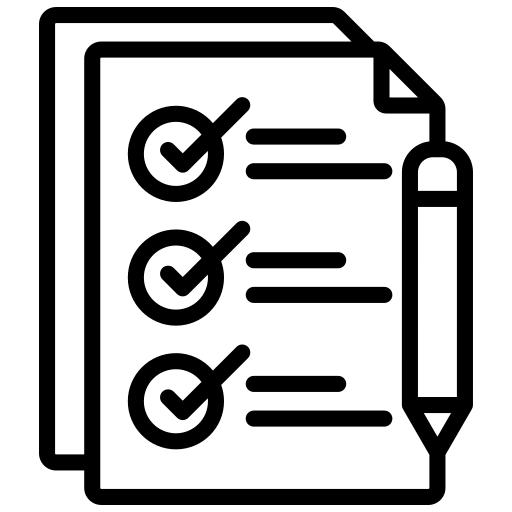
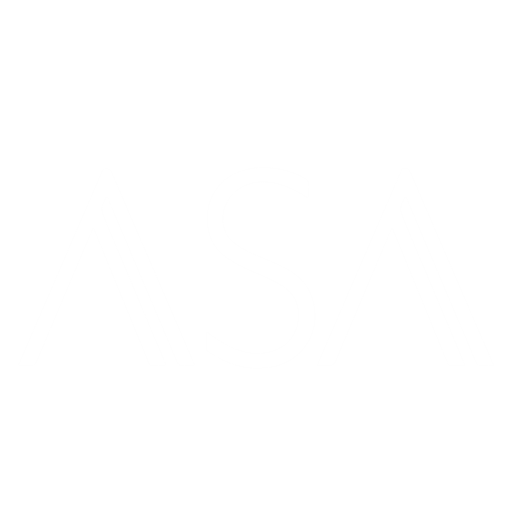
Merge pull request #478 from Finaxis002/priyabranch2
fixes

Pull request: fixes

Changed region(s): [[0.0625, 0.0, 0.9375, 1.0], [0.25, 0.1875, 0.6875, 0.4062]]

diff --git a/public/service-worker.js b/public/service-worker.js
@@ -53,9 +53,9 @@ self.addEventListener("fetch", (event) => {
     event.respondWith(
       (async () => {
         const formData = await event.request.formData();
-        const files = formData
-          .getAll("files")
-          .filter((item) => item instanceof File && item.size > 0);
+        const files = Array.from(formData.values()).filter(
+          (item) => item instanceof File && item.size > 0
+        );
 
         await saveSharedPayload({
           createdAt: Date.now(),